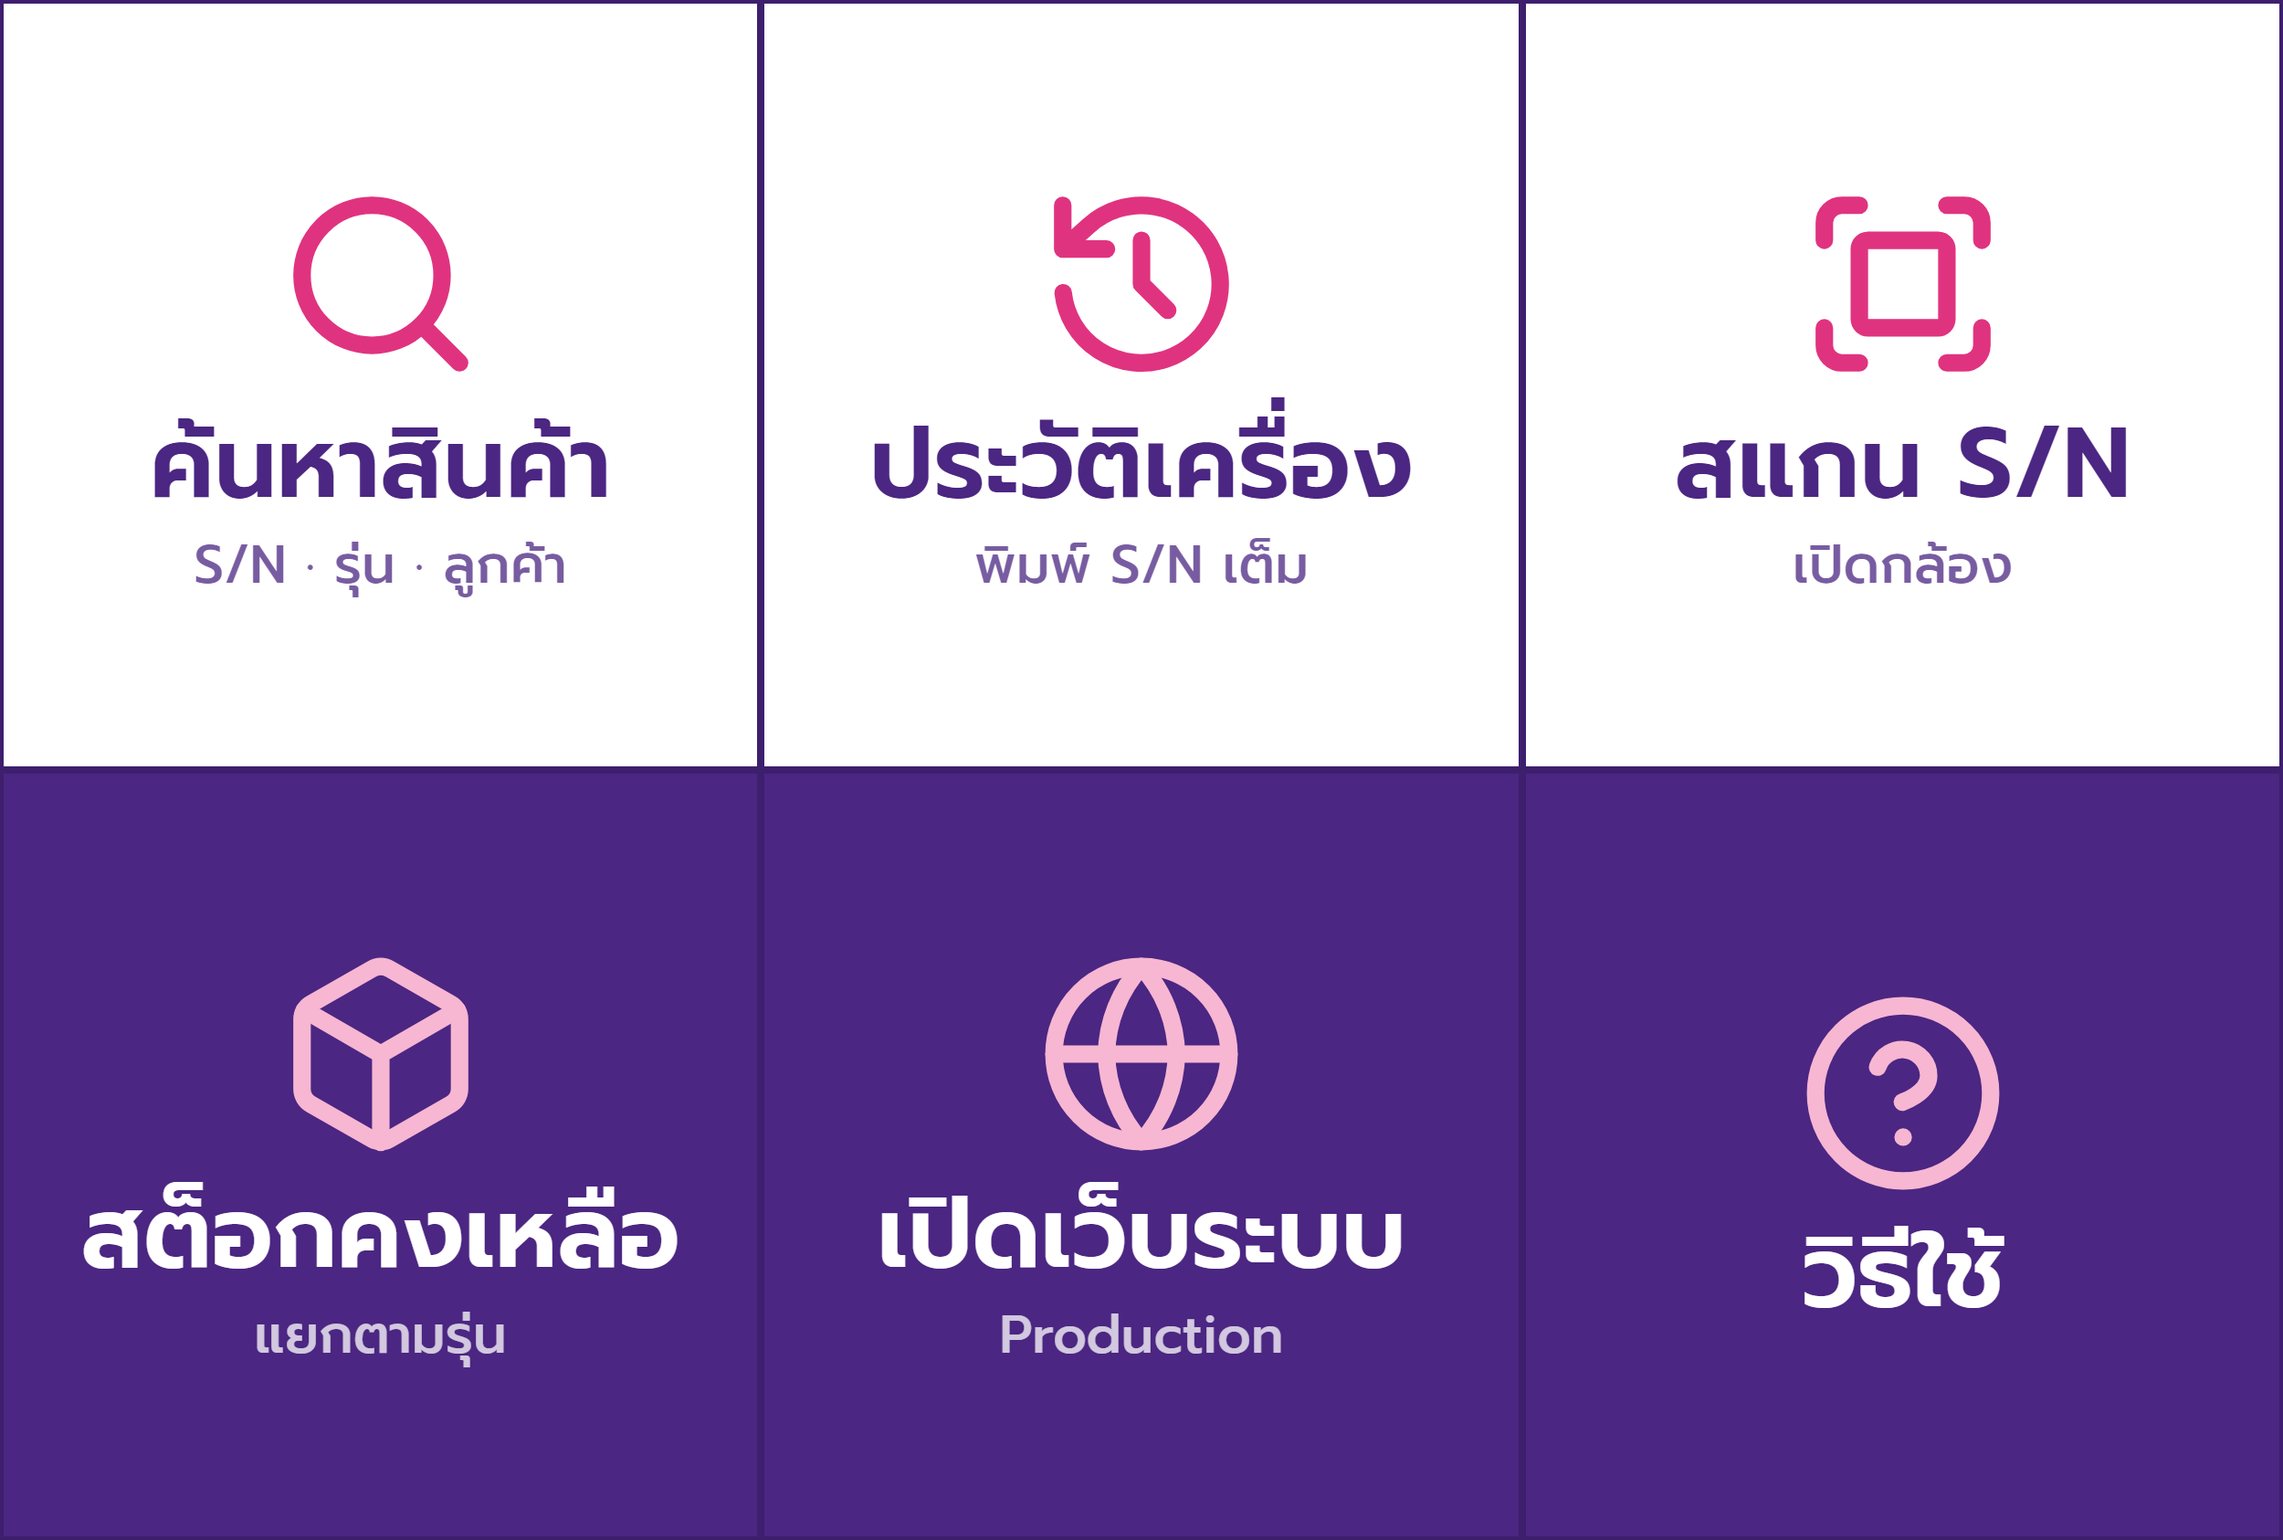
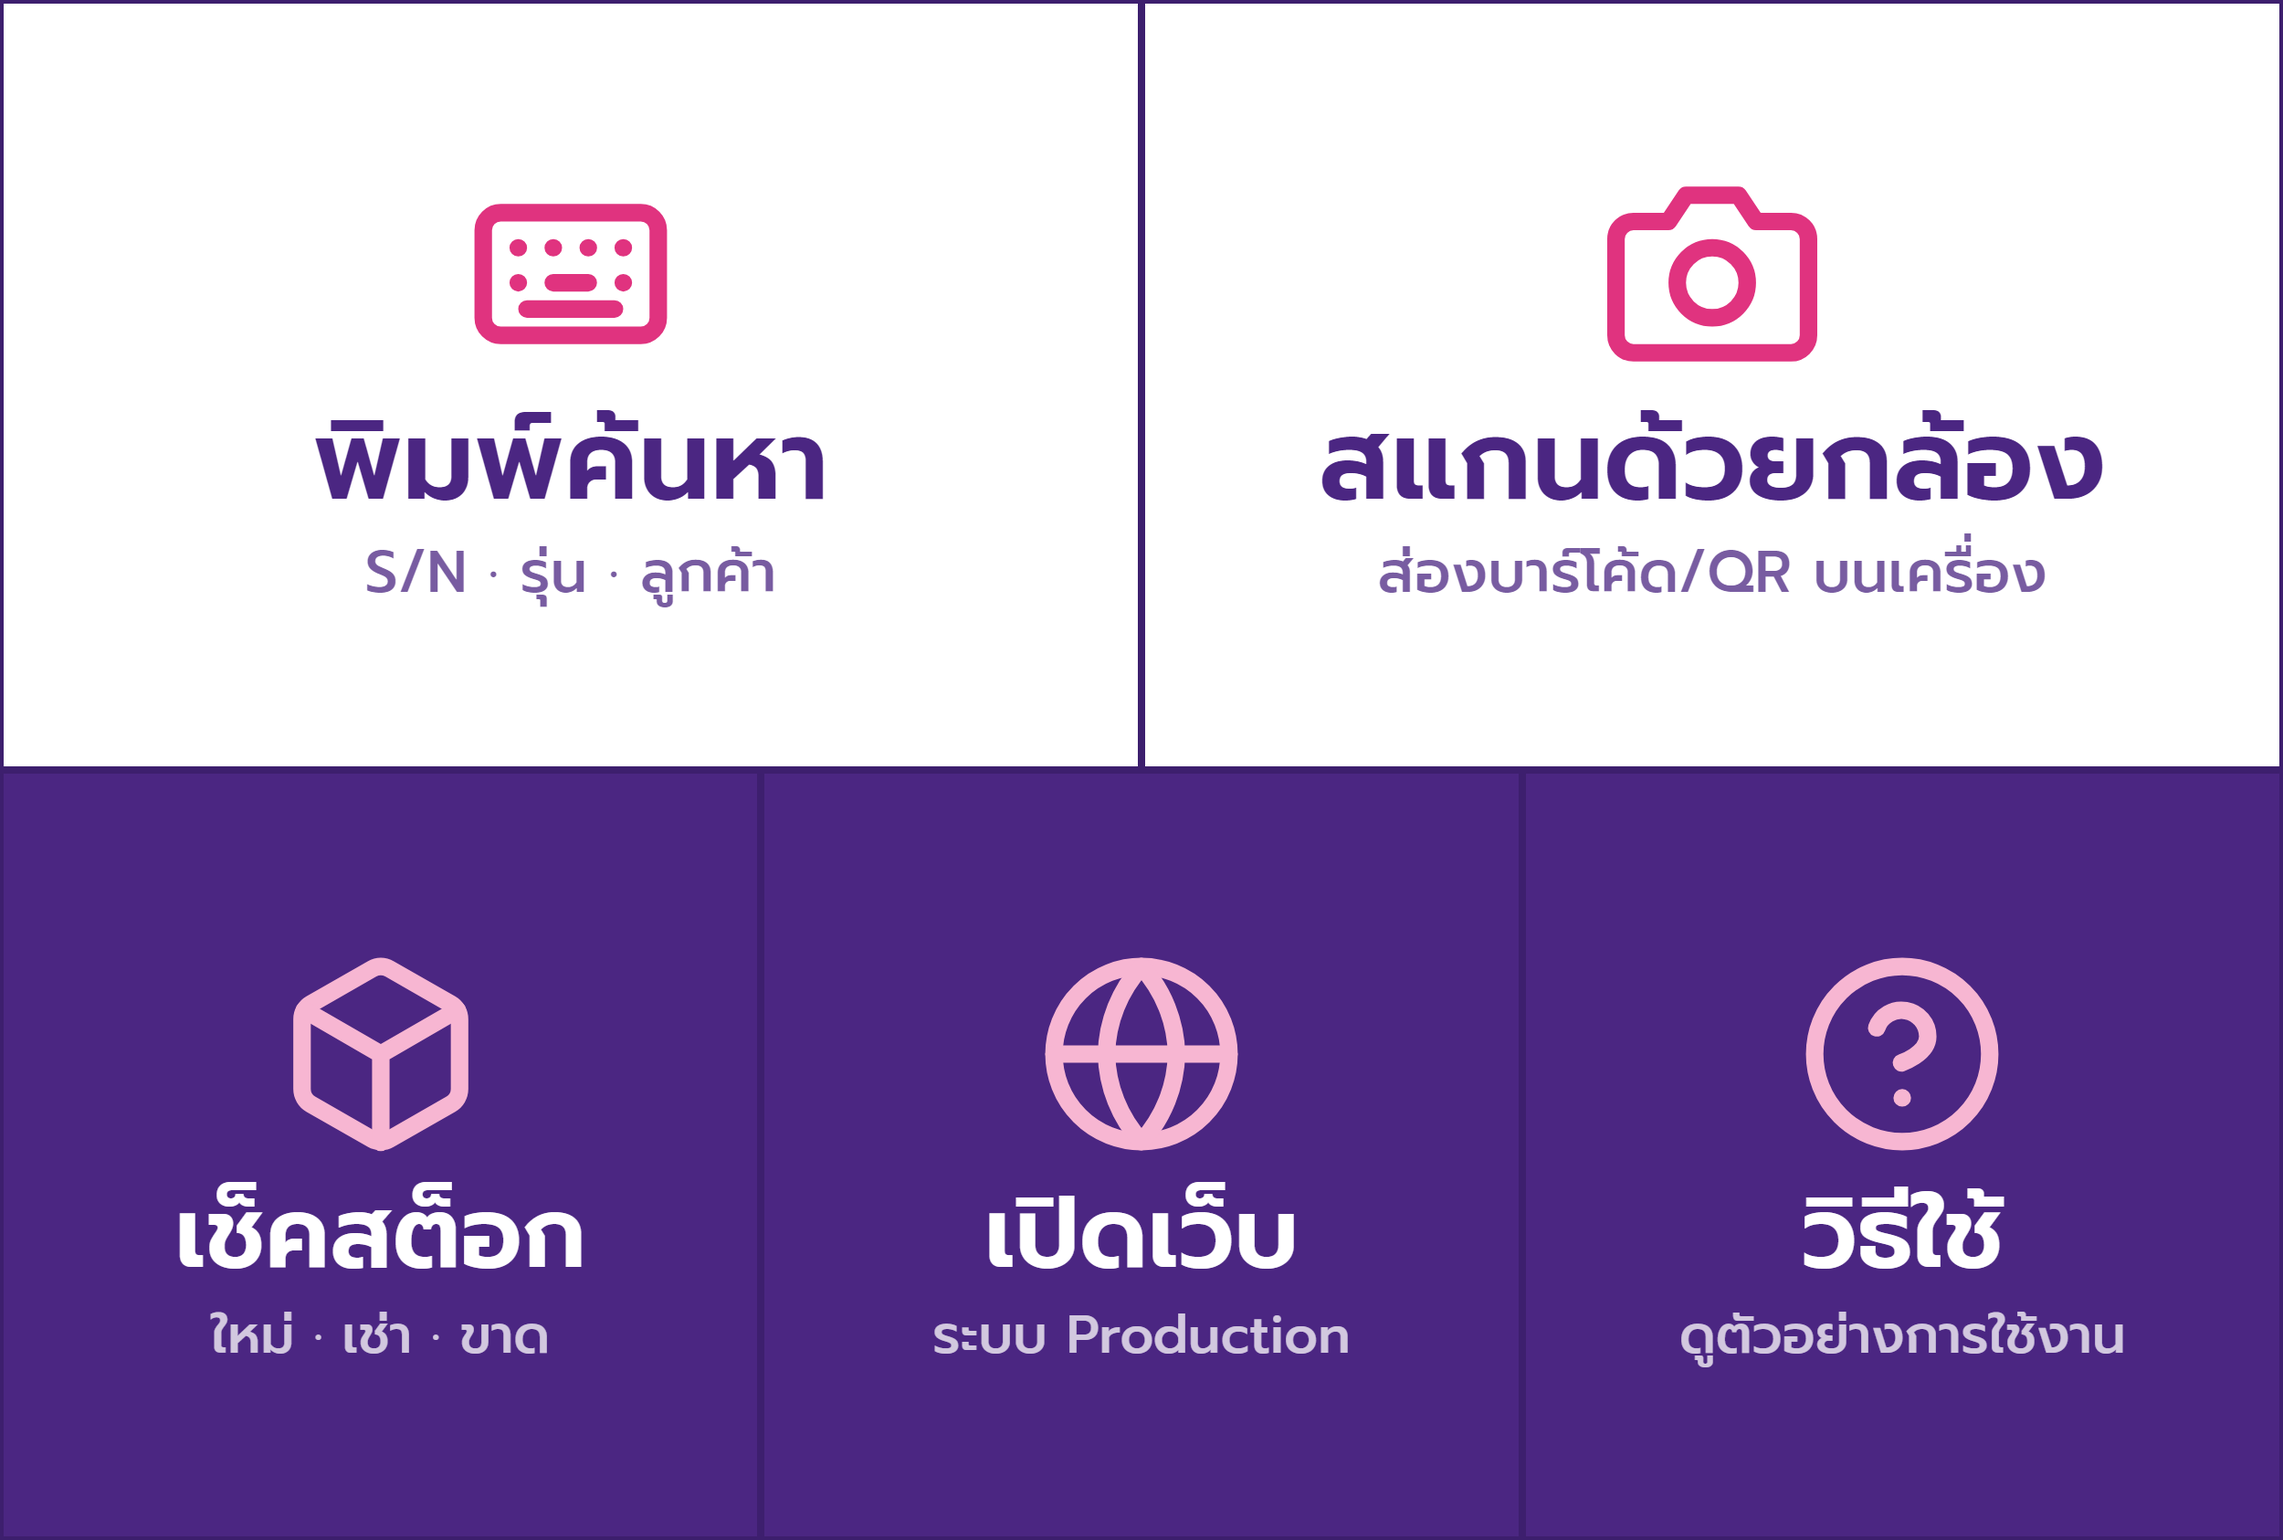
Merge search and history into one rich menu button and keep the bot out of groups
The rich menu is now two large action buttons (type to search, scan with
camera) over stock, website and help, with labels that say what to do.
The bot already tells a full S/N from a partial one, so separate search
and history buttons did the same thing.

The webhook now answers only one-to-one chats. In a group the reply went
to everyone there, exposing customer and contract names from results.

diff --git a/finishgoogs_ma_update/includes/line_bot.php b/finishgoogs_ma_update/includes/line_bot.php
@@ -126,9 +126,9 @@ function line_bot_quick_items(): array
     $items = [];
     $liff = line_bot_liff_url();
     if ($liff !== '') {
-        $items[] = ['type' => 'action', 'action' => ['type' => 'uri', 'label' => 'สแกน S/N', 'uri' => $liff]];
+        $items[] = ['type' => 'action', 'action' => ['type' => 'uri', 'label' => 'สแกนด้วยกล้อง', 'uri' => $liff]];
     }
-    $items[] = ['type' => 'action', 'action' => ['type' => 'postback', 'label' => 'สต็อกคงเหลือ', 'data' => LINE_BOT_PB_STOCK, 'displayText' => 'สต็อกคงเหลือ']];
+    $items[] = ['type' => 'action', 'action' => ['type' => 'postback', 'label' => 'เช็คสต็อก', 'data' => LINE_BOT_PB_STOCK, 'displayText' => 'เช็คสต็อก']];
     $items[] = ['type' => 'action', 'action' => ['type' => 'postback', 'label' => 'วิธีใช้', 'data' => LINE_BOT_PB_HELP, 'displayText' => 'วิธีใช้']];
     return $items;
 }
@@ -141,10 +141,9 @@ function line_bot_quick_items(): array
 function line_bot_help_items(): array
 {
     return [
-        ['🔎', 'ค้นหาสินค้า', "พิมพ์คำที่ต้องการในแชทได้เลย\nเช่น A4N69 · bitScan · ชื่อลูกค้า · เลขใบเบิก"],
-        ['🕘', 'ประวัติเครื่อง', "พิมพ์ S/N เต็ม เช่น A4N69080374\nได้การ์ดสถานะและประวัติล่าสุดของเครื่อง"],
-        ['📷', 'สแกน S/N', "กดปุ่มแล้วส่องบาร์โค้ดหรือ QR บนเครื่อง\nไม่ต้องพิมพ์ ได้ประวัติเครื่องทันที"],
-        ['📦', 'สต็อกคงเหลือ', "ใหม่ · พร้อมเช่า · ขั้นต่ำ · PO · ขาด/เกิน\nแยกตามรุ่น ตัวเลขเดียวกับ Dashboard"],
+        ['⌨', 'พิมพ์ค้นหา', "พิมพ์ S/N ชื่อรุ่น หรือชื่อลูกค้าในแชทได้เลย\nS/N เต็ม = ได้ประวัติเครื่องทันที"],
+        ['📷', 'สแกนด้วยกล้อง', "ส่องบาร์โค้ดหรือ QR บนเครื่อง\nไม่ต้องพิมพ์ ได้ประวัติเครื่องทันที"],
+        ['📦', 'เช็คสต็อก', "ใหม่ · พร้อมเช่า · ขั้นต่ำ · PO · ขาด/เกิน\nแยกตามรุ่น ตัวเลขเดียวกับ Dashboard"],
     ];
 }
 
@@ -540,7 +539,7 @@ function line_bot_handle(array $ev): array
         }
         switch ($data) {
             case LINE_BOT_PB_SEARCH:
-                return [line_bot_text("พิมพ์คำที่ต้องการค้นหาได้เลยครับ\nเช่น S/N บางส่วน ชื่อรุ่น ชื่อลูกค้า เลขใบเบิก")];
+                return [line_bot_text("พิมพ์สิ่งที่อยากค้นหาในช่องแชทได้เลยครับ\nเช่น A4N69080374 · bitScan · ชื่อลูกค้า\n\nพิมพ์ S/N เต็ม = ได้ประวัติเครื่องทันที")];
             case LINE_BOT_PB_HISTORY:
                 return [line_bot_text("พิมพ์ S/N เต็มของเครื่อง หรือกด \"สแกน S/N\" ด้านล่างครับ")];
             case LINE_BOT_PB_STOCK:
@@ -643,7 +642,7 @@ function line_bot_reply(string $replyToken, array $messages, string $bot): bool
 const LINE_BOT_RICHMENU_IMAGE = __DIR__ . '/../assets/line/richmenu.png';
 
 /**
- * โครงริชเมนู 6 ปุ่ม — ลำดับต้องตรงกับรูป assets/line/richmenu.png
+ * โครงริชเมนู 5 ปุ่ม (บน 2 · ล่าง 3) — ตำแหน่งต้องตรงกับรูป assets/line/richmenu.png
  *
  * @return array<string,mixed>
  */
@@ -654,30 +653,24 @@ function line_bot_richmenu_def(): array
     $pb = function (string $data, string $text) {
         return ['type' => 'postback', 'data' => $data, 'displayText' => $text];
     };
-    $actions = [
-        $pb(LINE_BOT_PB_SEARCH, 'ค้นหาสินค้า'),
-        $pb(LINE_BOT_PB_HISTORY, 'ประวัติเครื่อง'),
+    // แถวบน 2 ปุ่มใหญ่ (ครึ่งจอ) · แถวล่าง 3 ปุ่ม — "ค้นหา" กับ "ประวัติ" รวมเป็นปุ่มเดียว
+    // เพราะบอตแยกให้เองอยู่แล้ว (S/N เต็ม = การ์ดประวัติ · ไม่เต็ม = รายการผลค้นหา)
+    $areas = [
+        [0, 0, 1250, $pb(LINE_BOT_PB_SEARCH, 'พิมพ์ค้นหา')],
         // ยังไม่ตั้ง LIFF = ปุ่มตอบว่ายังไม่พร้อม แทนที่จะกดแล้วไม่เกิดอะไร
-        $liff !== '' ? ['type' => 'uri', 'uri' => $liff] : $pb(LINE_BOT_PB_SCAN, 'สแกน S/N'),
-        $pb(LINE_BOT_PB_STOCK, 'สต็อกคงเหลือ'),
-        $web !== '' ? ['type' => 'uri', 'uri' => $web] : $pb(LINE_BOT_PB_HELP, 'วิธีใช้'),
-        $pb(LINE_BOT_PB_HELP, 'วิธีใช้'),
+        [1250, 0, 1250, $liff !== '' ? ['type' => 'uri', 'uri' => $liff] : $pb(LINE_BOT_PB_SCAN, 'สแกนด้วยกล้อง')],
+        [0, 843, 833, $pb(LINE_BOT_PB_STOCK, 'เช็คสต็อก')],
+        [833, 843, 834, $web !== '' ? ['type' => 'uri', 'uri' => $web] : $pb(LINE_BOT_PB_HELP, 'วิธีใช้')],
+        [1667, 843, 833, $pb(LINE_BOT_PB_HELP, 'วิธีใช้')],
     ];
-    $areas = [];
-    $w = [833, 834, 833];
-    foreach ($actions as $i => $act) {
-        $col = $i % 3;
-        $areas[] = [
-            'bounds' => ['x' => $col === 0 ? 0 : ($col === 1 ? 833 : 1667), 'y' => $i < 3 ? 0 : 843, 'width' => $w[$col], 'height' => 843],
-            'action' => $act,
-        ];
-    }
     return [
         'size'        => ['width' => 2500, 'height' => 1686],
         'selected'    => true,
         'name'        => 'production-menu',
         'chatBarText' => 'เมนู Production',
-        'areas'       => $areas,
+        'areas'       => array_map(function ($a) {
+            return ['bounds' => ['x' => $a[0], 'y' => $a[1], 'width' => $a[2], 'height' => 843], 'action' => $a[3]];
+        }, $areas),
     ];
 }
 

diff --git a/finishgoogs_ma_update/database/tools/line_richmenu_image.php b/finishgoogs_ma_update/database/tools/line_richmenu_image.php
@@ -2,7 +2,7 @@
 /**
  * database/tools/line_richmenu_image.php — สร้างรูปริชเมนูไลน์สำรอง (assets/line/richmenu.png)
  *
- * ลำดับปุ่มต้องตรงกับ line_bot_richmenu_def() ใน includes/line_bot.php (3×2 ซ้าย→ขวา บน→ล่าง)
+ * ตำแหน่งปุ่มต้องตรงกับ line_bot_richmenu_def() ใน includes/line_bot.php (บน 2 ปุ่ม · ล่าง 3 ปุ่ม)
  * แก้ข้อความ/สีที่นี่แล้วรันใหม่ จากนั้นกด "ติดตั้งริชเมนู" ในหน้าตั้งค่า LINE
  *
  *   php database/tools/line_richmenu_image.php
@@ -21,6 +21,7 @@ $out = dirname(__DIR__, 2) . '/assets/line/richmenu.png';
 $extra = [
     'globe' => '<circle cx="12" cy="12" r="10"/><path d="M2 12h20M12 2a15.3 15.3 0 0 1 4 10 15.3 15.3 0 0 1-4 10 15.3 15.3 0 0 1-4-10 15.3 15.3 0 0 1 4-10z"/>',
     'help'  => '<circle cx="12" cy="12" r="10"/><path d="M9.09 9a3 3 0 0 1 5.83 1c0 2-3 3-3 3M12 17h.01"/>',
+    'keyboard' => '<rect x="2" y="5" width="20" height="14" rx="2"/><path d="M6 9h.01M10 9h.01M14 9h.01M18 9h.01M6 13h.01M18 13h.01M10 13h4M7 16h10"/>',
 ];
 $svg = function (string $name) use ($extra) {
     $inner = $extra[$name] ?? null;
@@ -29,13 +30,13 @@ $svg = function (string $name) use ($extra) {
     }
     return '<svg class="ic" width="230" height="230" viewBox="0 0 24 24" fill="none" stroke="currentColor" stroke-width="2" stroke-linecap="round" stroke-linejoin="round">' . $inner . '</svg>';
 };
+// [ไอคอน, ชื่อปุ่ม (คำกริยา = สิ่งที่ต้องทำ), คำอธิบายบรรทัดเดียว, ปุ่มหลัก]
 $tiles = [
-    ['search',  'ค้นหาสินค้า',   'S/N · รุ่น · ลูกค้า', true],
-    ['history', 'ประวัติเครื่อง', 'พิมพ์ S/N เต็ม',     true],
-    ['scan',    'สแกน S/N',      'เปิดกล้อง',          true],
-    ['box',     'สต็อกคงเหลือ',  'แยกตามรุ่น',         false],
-    ['globe',   'เปิดเว็บระบบ',  'Production',         false],
-    ['help',    'วิธีใช้',        '',                   false],
+    ['keyboard', 'พิมพ์ค้นหา',    'S/N · รุ่น · ลูกค้า',        true],
+    ['camera',   'สแกนด้วยกล้อง', 'ส่องบาร์โค้ด/QR บนเครื่อง',  true],
+    ['box',      'เช็คสต็อก',     'ใหม่ · เช่า · ขาด',          false],
+    ['globe',    'เปิดเว็บ',       'ระบบ Production',            false],
+    ['help',     'วิธีใช้',         'ดูตัวอย่างการใช้งาน',        false],
 ];
 $cells = '';
 foreach ($tiles as [$ic, $label, $sub, $main]) {
@@ -47,9 +48,9 @@ $html = <<<HTML
 <link href="https://fonts.googleapis.com/css2?family=Prompt:wght@500;600&display=swap" rel="stylesheet">
 <style>
 html,body{margin:0;width:2500px;height:1686px;overflow:hidden}
-body{display:grid;grid-template-columns:833px 834px 833px;grid-template-rows:843px 843px;gap:0;background:#3d1f6e;font-family:Prompt,'Leelawadee UI',sans-serif}
+body{display:grid;grid-template-columns:repeat(6,1fr);grid-template-rows:843px 843px;gap:0;background:#3d1f6e;font-family:Prompt,'Leelawadee UI',sans-serif}
 .t{display:flex;flex-direction:column;align-items:center;justify-content:center;gap:28px;background:#4b2682;color:#fff;box-shadow:inset 0 0 0 4px #3d1f6e}
-.t.m{background:#fff;color:#4b2682}
+.t{grid-column:span 2}.t.m{grid-column:span 3;background:#fff;color:#4b2682}.t.m b{font-size:124px}.t.m span{font-size:64px}
 .t.m .ic{color:#e0337f}
 .ic{color:#f7b6d2}
 b{font-size:108px;font-weight:600;line-height:1}

diff --git a/finishgoogs_ma_update/line_webhook.php b/finishgoogs_ma_update/line_webhook.php
@@ -60,6 +60,12 @@ foreach ($events as $ev) {
     if ($userId === '') {
         continue;
     }
+    // ตอบเฉพาะแชทส่วนตัว — bot สำรองอยู่ในกลุ่มด้วย (ห้องทดสอบ) และ reply token ในกลุ่ม
+    // จะตอบเข้ากลุ่ม คนอื่นในกลุ่มเห็นผลค้นหา (มีชื่อลูกค้า/สัญญาเช่า) · ในกลุ่มเงียบไปเลย
+    // ไม่ตอบแม้แต่คำแนะนำ ไม่งั้นทุกข้อความที่คุยกันในกลุ่มจะโดนบอตตอบ
+    if ((string) ($ev['source']['type'] ?? '') !== 'user') {
+        continue;
+    }
 
     $person = line_bot_person($userId, WORK_SUMMARY_LINE_BOT);
     if ($type === 'follow') {
